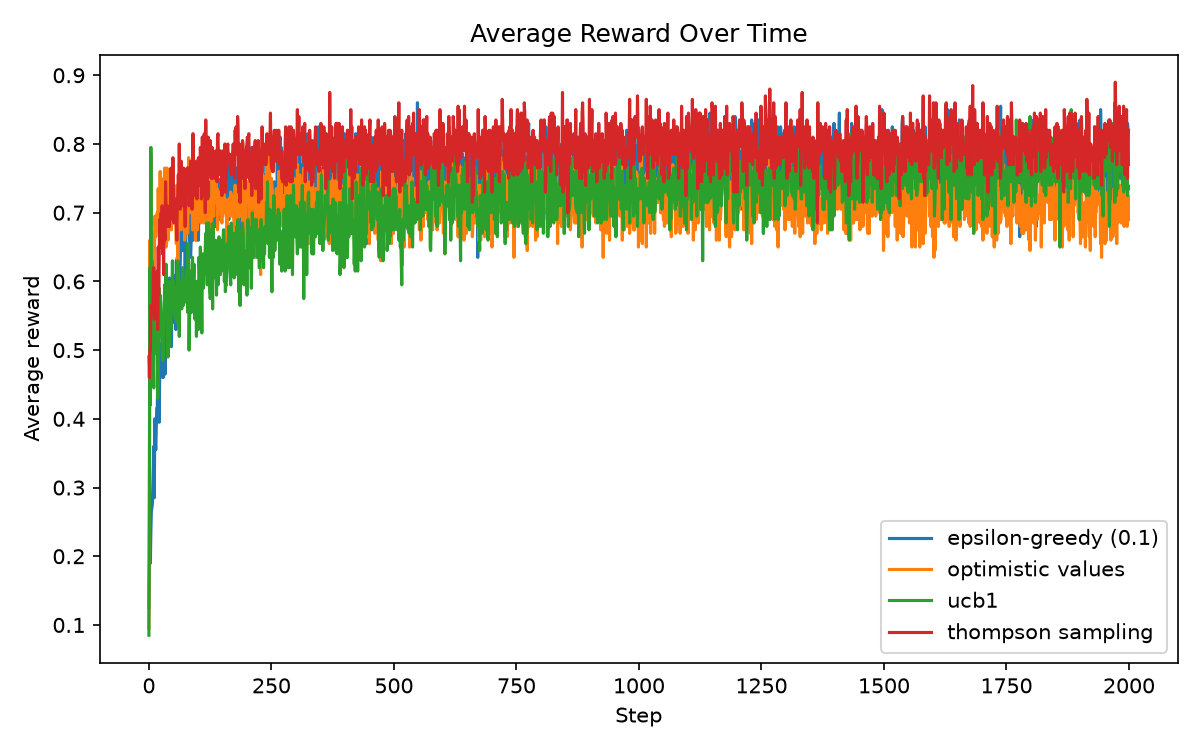
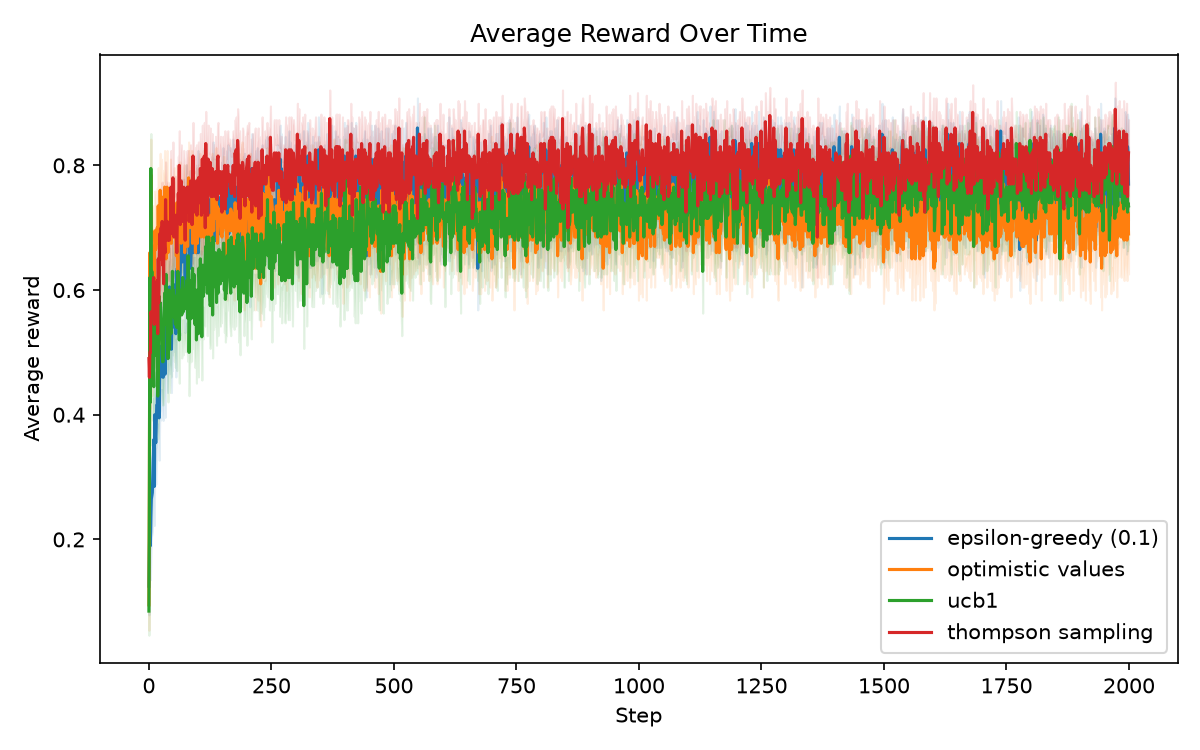
show confidence intervals in plots

diff --git a/scripts/run_bandits.py b/scripts/run_bandits.py
@@ -42,7 +42,12 @@ def plot_metric(
 ) -> None:
     plt.figure(figsize=(8, 5))
     for name, values in results.items():
-        plt.plot(values[metric], label=name)
+        line = plt.plot(values[metric], label=name)[0]
+        lower = values.get(f"{metric}_lower")
+        upper = values.get(f"{metric}_upper")
+        if lower is not None and upper is not None:
+            steps = range(len(values[metric]))
+            plt.fill_between(steps, lower, upper, color=line.get_color(), alpha=0.12)
     plt.title(title)
     plt.xlabel("Step")
     plt.ylabel(ylabel)
